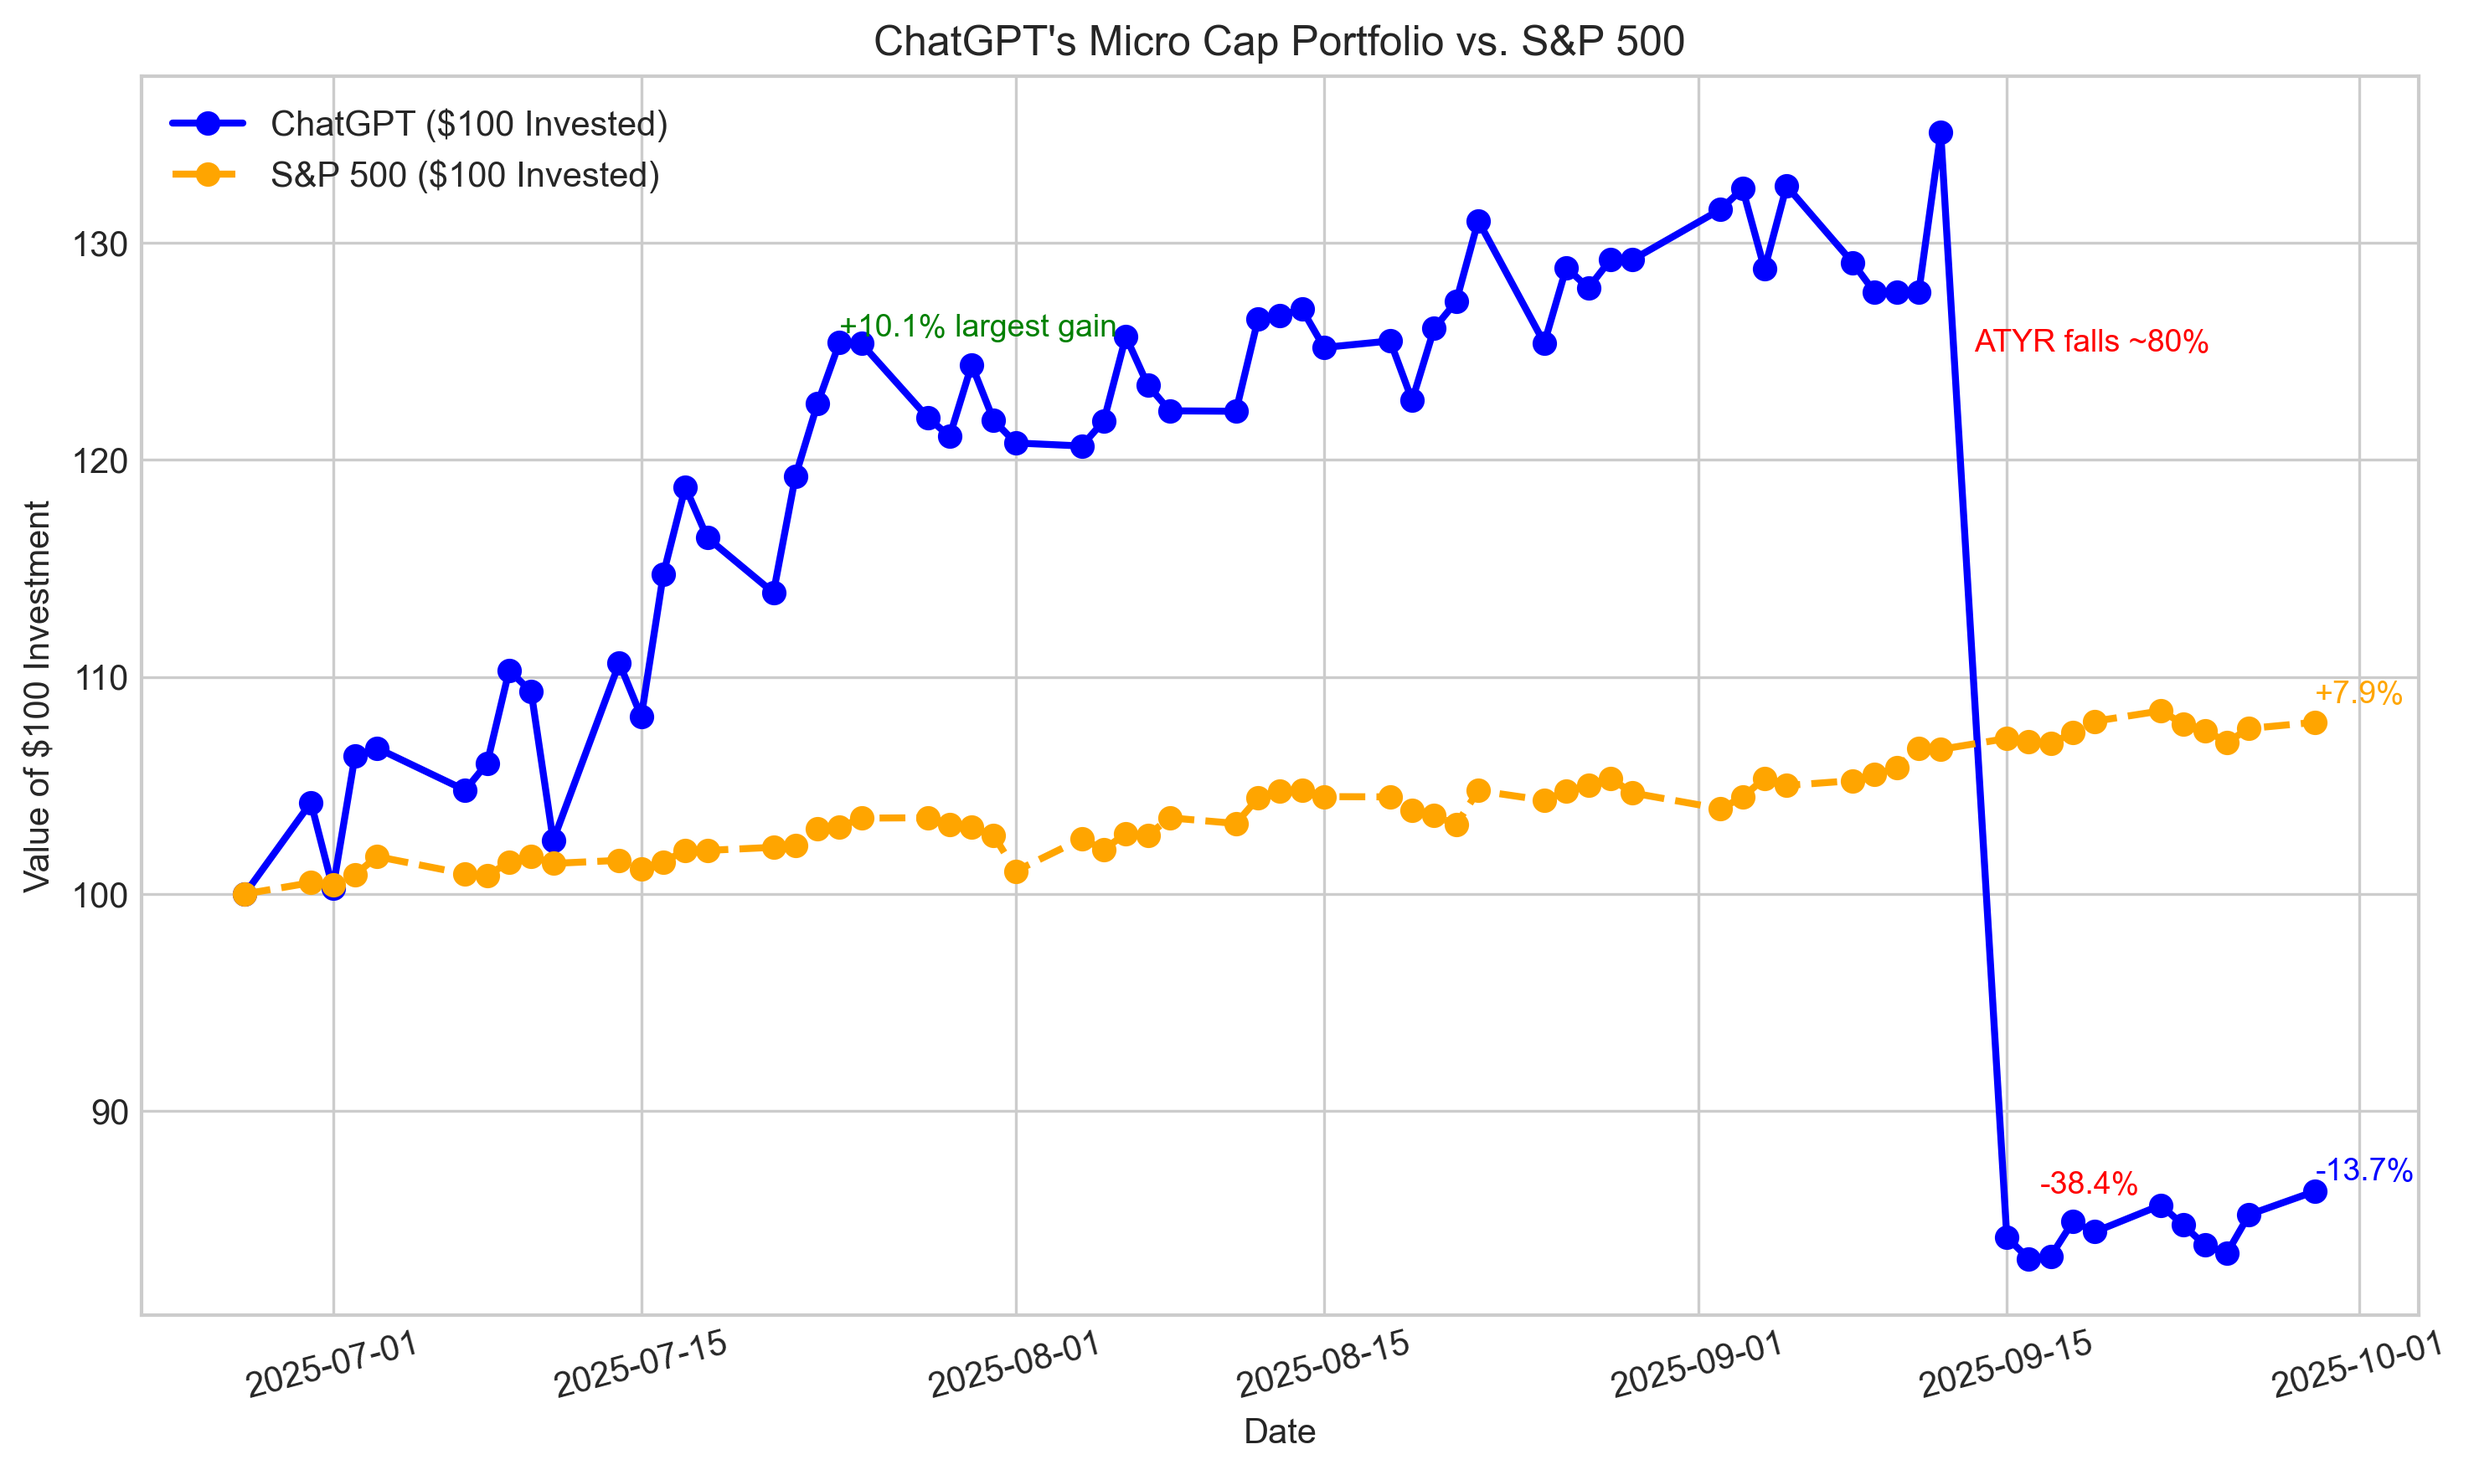
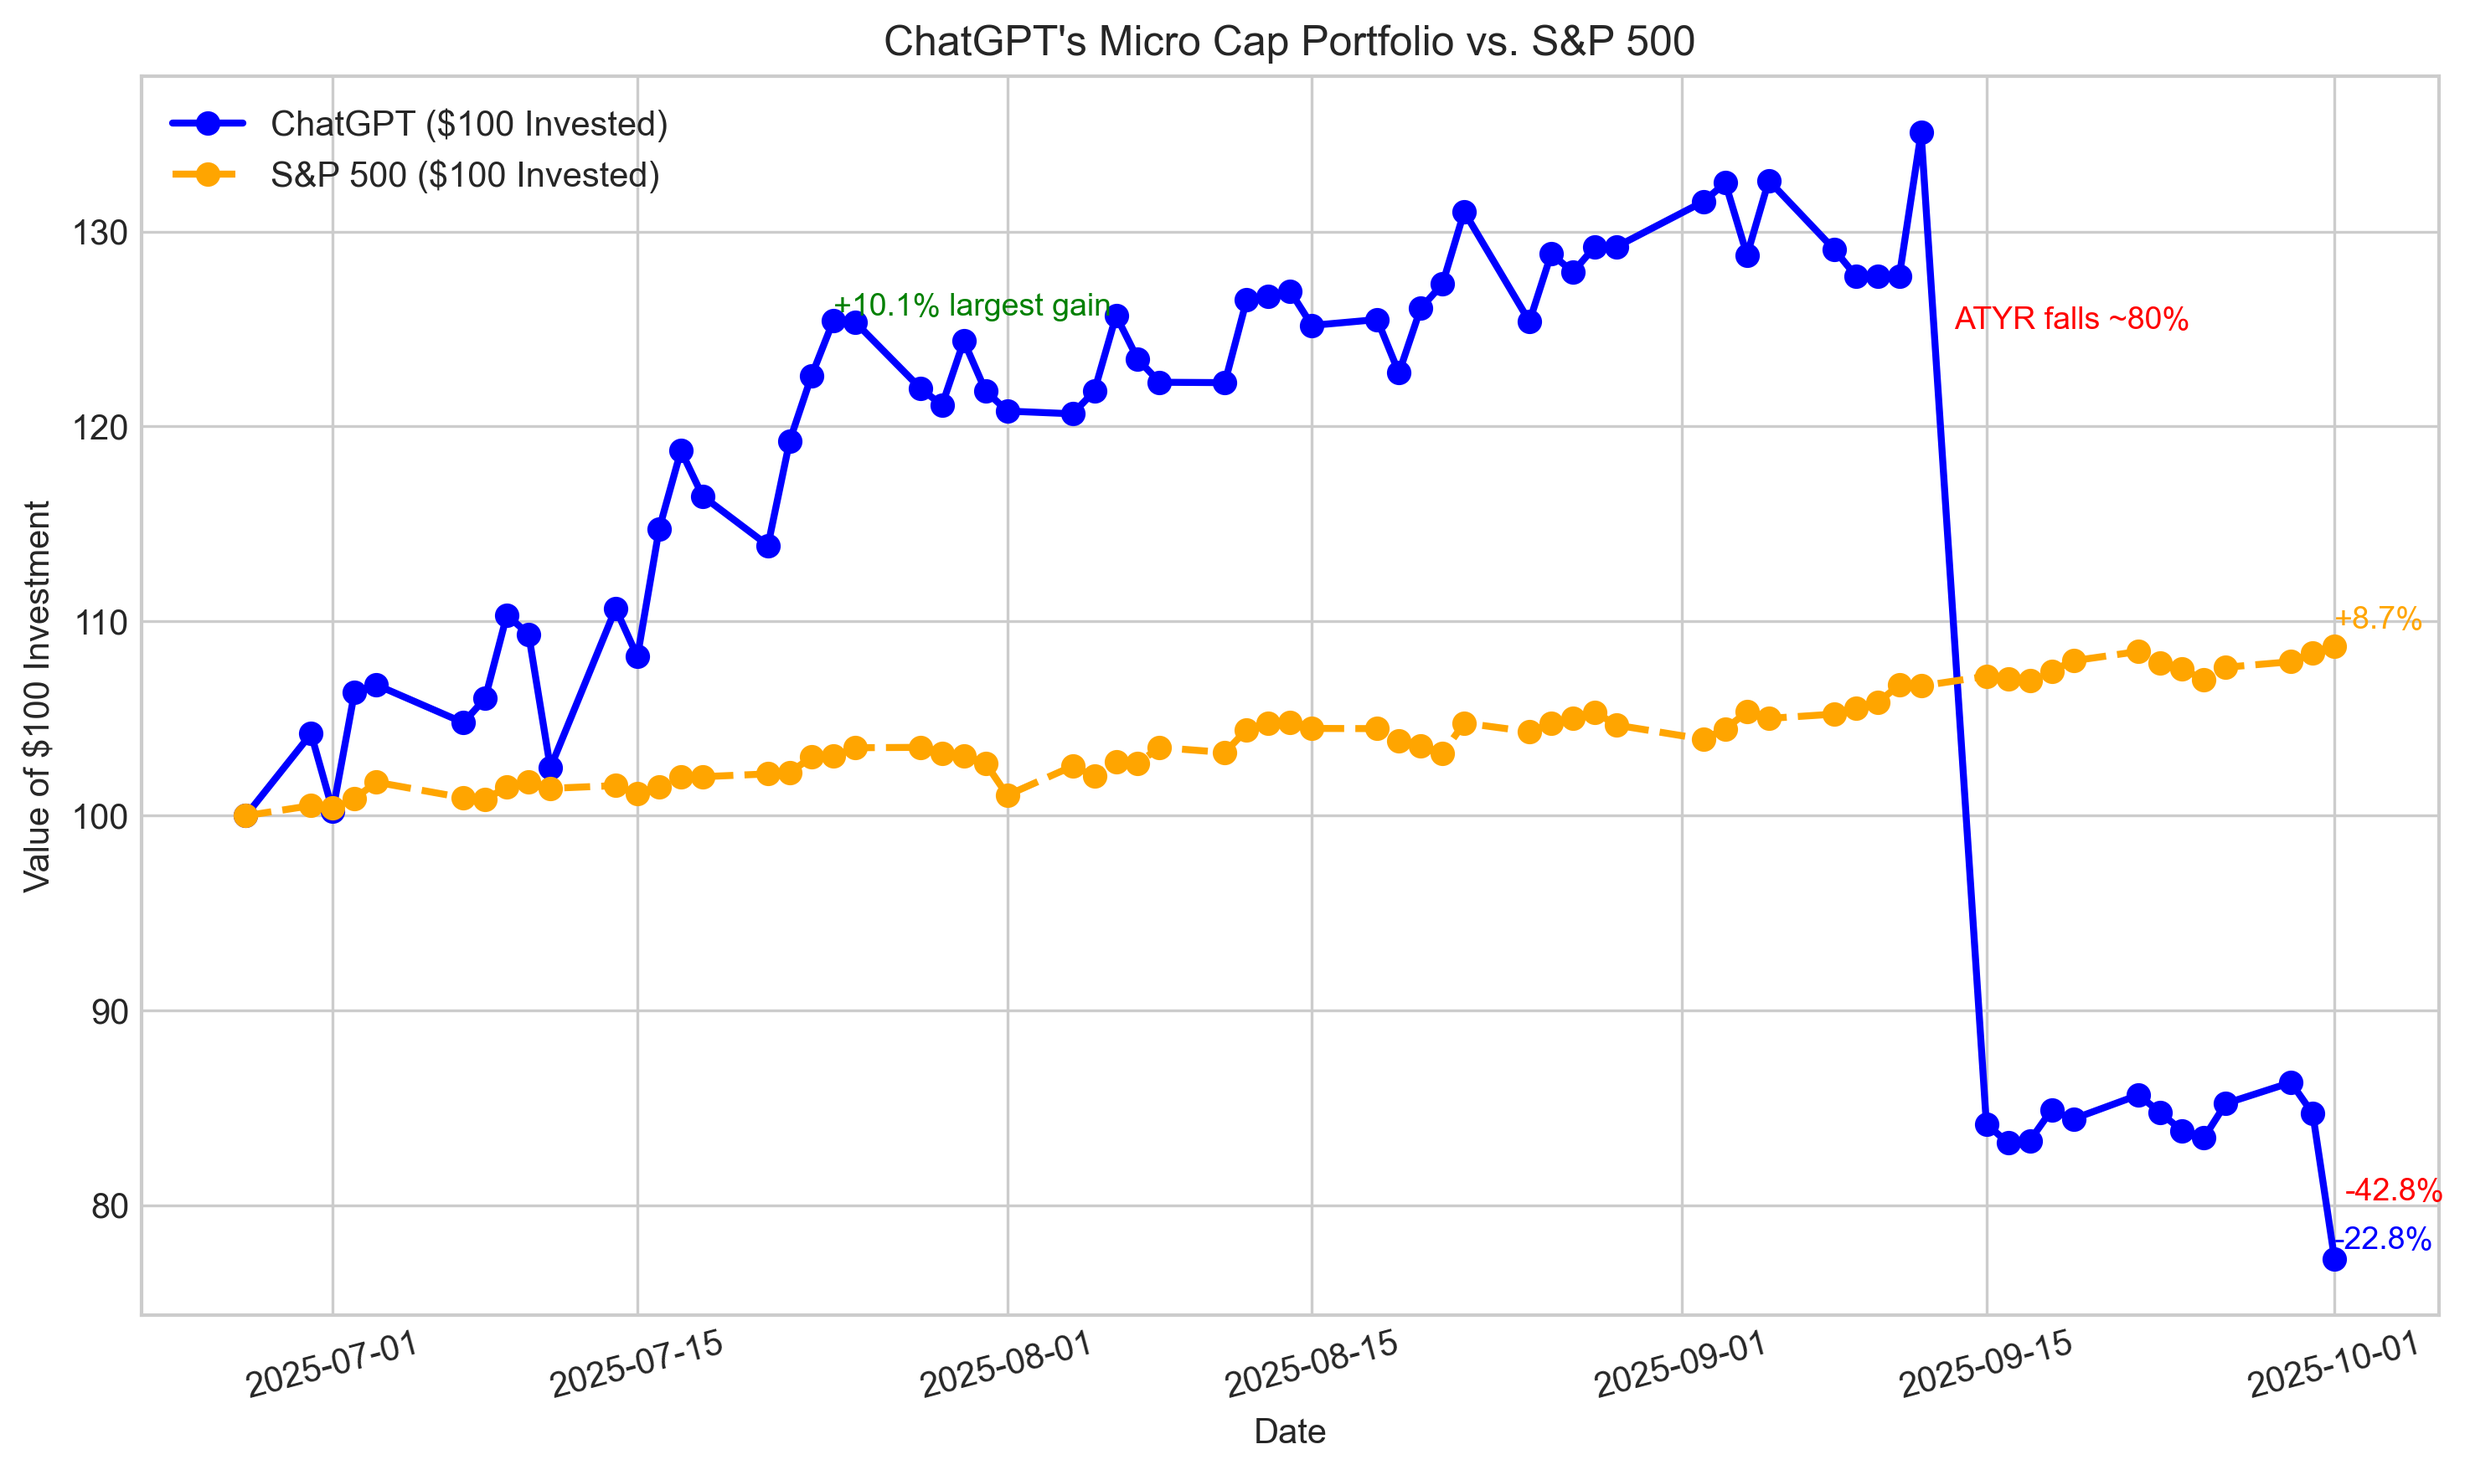
Log 9/30, 10/1

diff --git a/Scripts and CSV Files/ProcessPortfolio.py b/Scripts and CSV Files/ProcessPortfolio.py
@@ -8,7 +8,7 @@ sys.path.append(str(Path(__file__).resolve().parents[1]))
 
 from trading_script import main#, set_asof
 
-# set_asof("2025-08-28")
+#set_asof("2025-09-30")
 
 
 if __name__ == "__main__":
